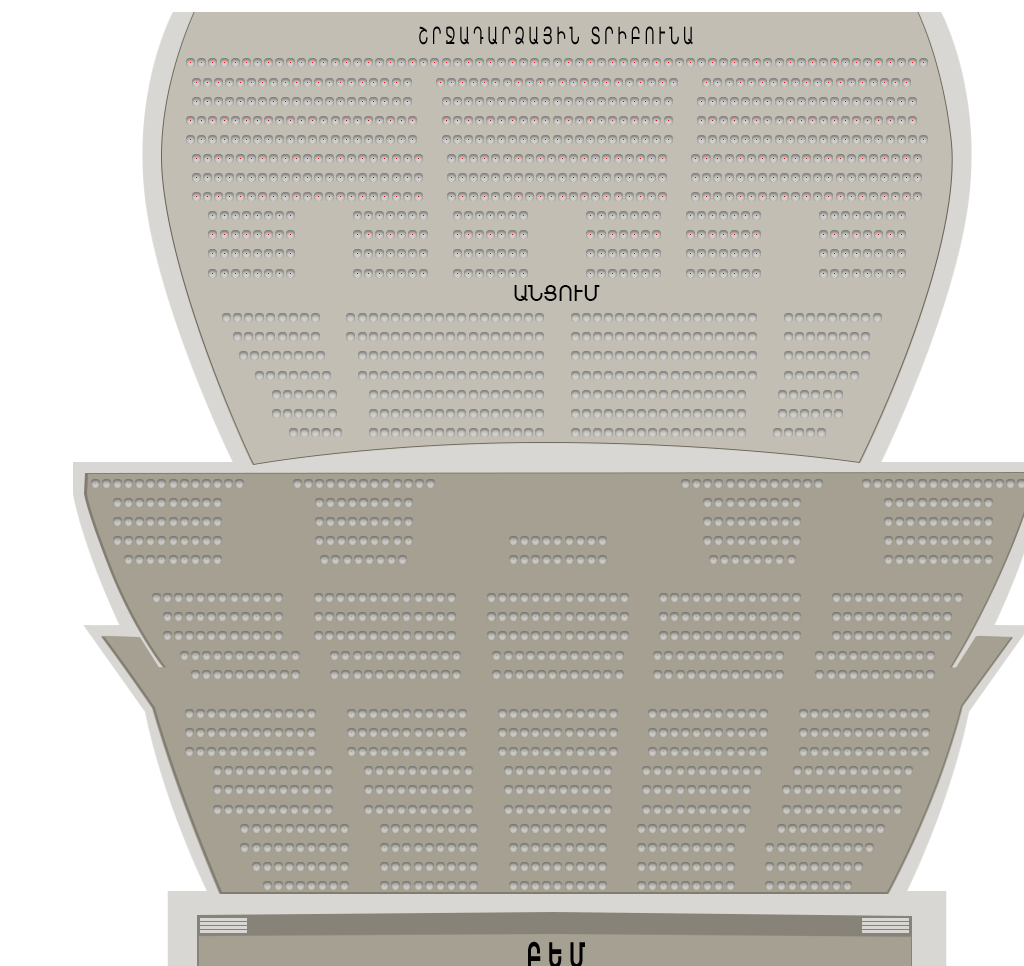
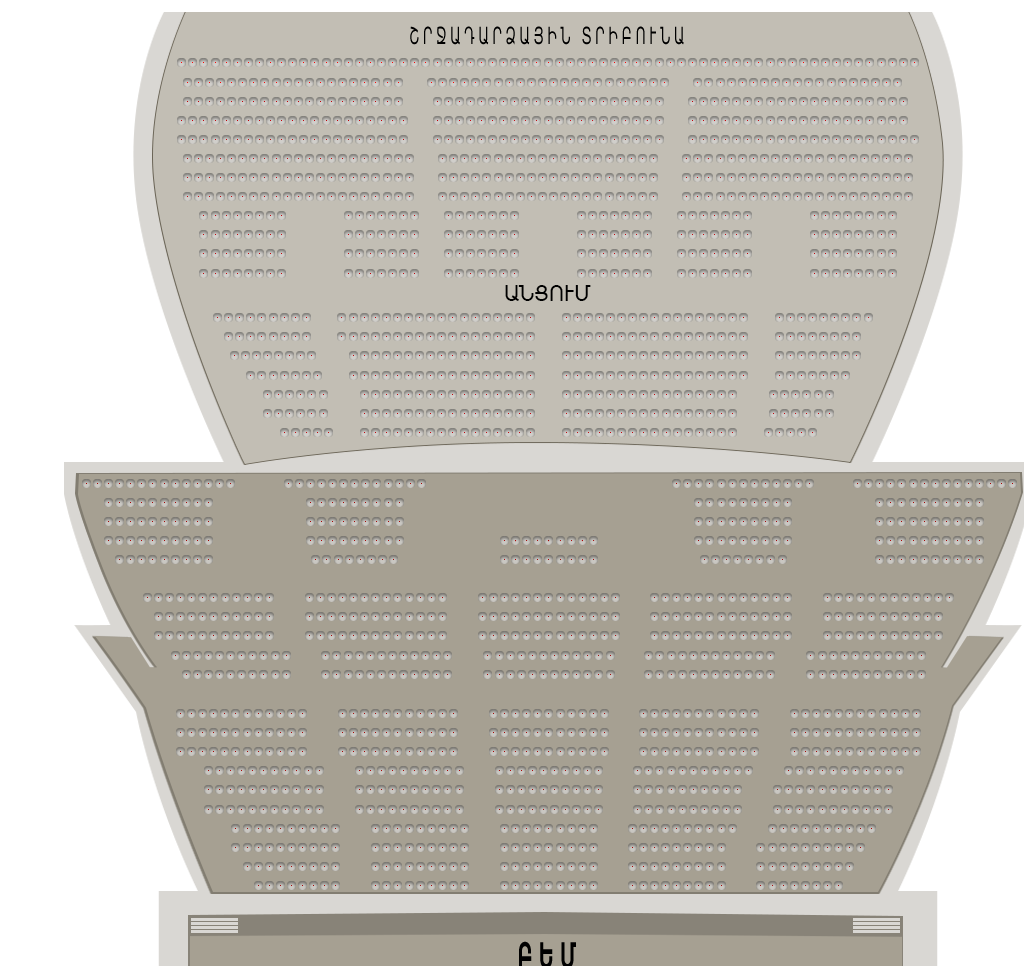
hall schema

diff --git a/src/components/photoMap/index.jsx b/src/components/photoMap/index.jsx
@@ -44,7 +44,7 @@ const PhotoCoordinatesByColor = () => {
                     const g = pixelData[offset + 1];
                     const b = pixelData[offset + 2];
 
-                    if (r >= 190 && g <= 30 && b <= 30) {
+                    if (r >= 100 && g <= 30 && b <= 30) {
                         coordinates.push({ x, y });
 
                     }
